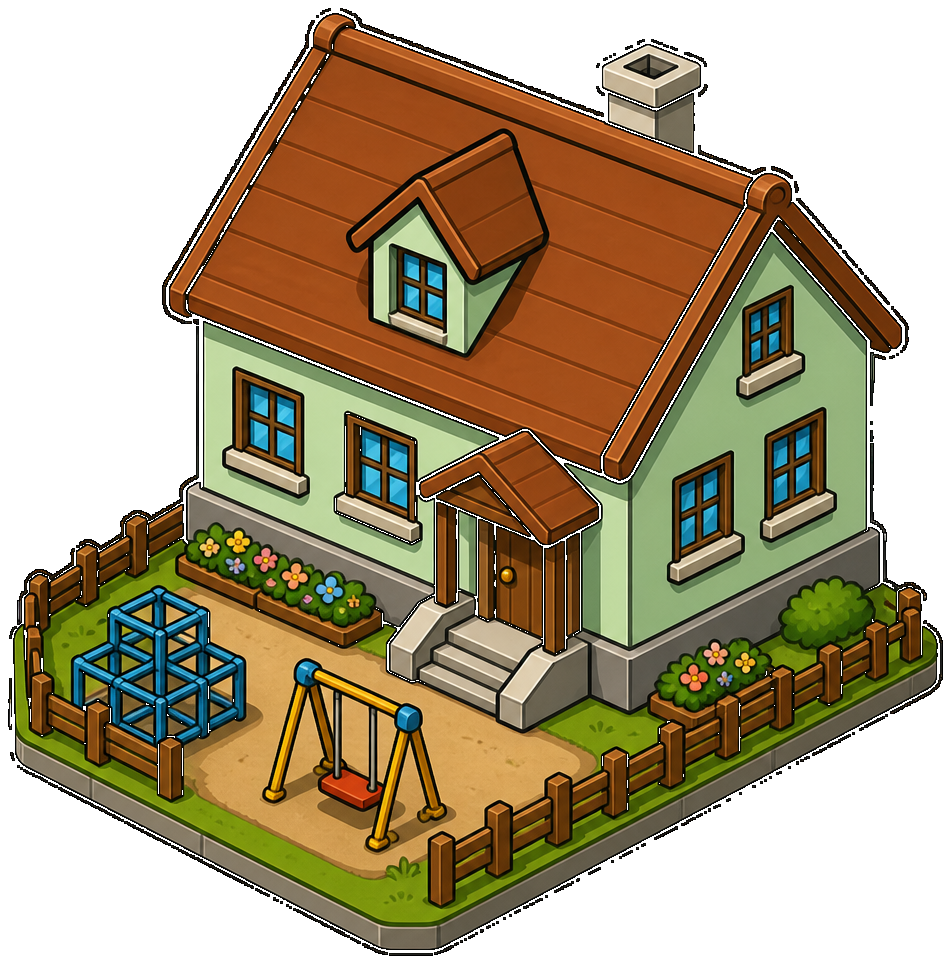
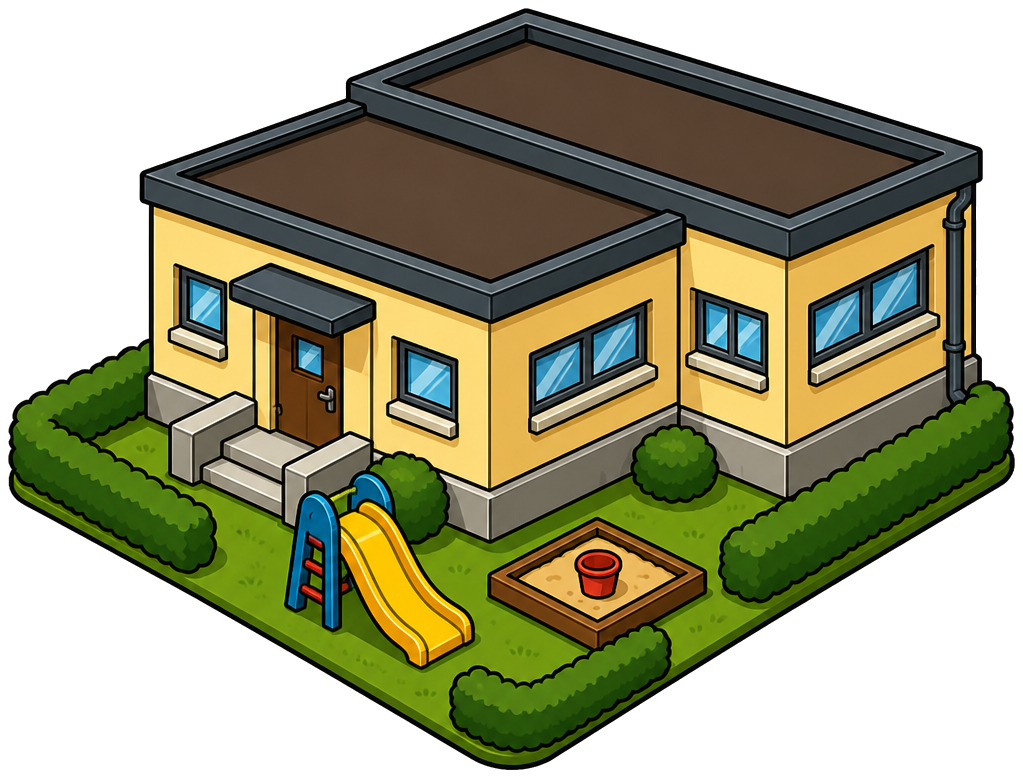
Place Kindergarten Weid on Weidstrasse 16 with flat-roof pavilion art.
OSM tags a flat roof; the old gabled sprite read as a house instead of the real kiga.

diff --git a/docs/plans/m3-landmarks-tracks-water-forest/S05-kiga-weid.md b/docs/plans/m3-landmarks-tracks-water-forest/S05-kiga-weid.md
@@ -1,6 +1,11 @@
 # Slice: S05 — Kindergarten Weid
 
-**Parent:** `docs/plans/m3-landmarks-tracks-water-forest/INDEX.md`  
+**Status:** Erledigt  
+**Typ:** Feature  
+**Datum:** 2026-08-11  
+**Owner:** feature-planner / Phase-2 `feature-implementer`  
+**Parent-INDEX:** `docs/plans/m3-landmarks-tracks-water-forest/INDEX.md`  
+**Slice-Datei:** `docs/plans/m3-landmarks-tracks-water-forest/S05-kiga-weid.md`  
 **Hängt ab von:** —
 
 Nur der **Feature-Schritt**. Plan, Tests, Review, Playtest und Git sind der normale Ablauf für *dieses* Stück — nicht extra Slices.
@@ -16,5 +21,185 @@ Der **Kindergarten Weid** ist in der Welt sichtbar: Lage und Ausrichtung nach Ma
 
 ## Nicht (andere Feature-Schritte)
 
-- Die anderen drei Kindergärten
+- Die anderen drei Kindergärten *(Bachtobel bleibt wie S04 platziert — nicht entfernen, nicht umbauen)*
 - Schul-Campi, Bahnhof, Gleise, Badi, Bäche, Wälder, Wohnhäuser
+
+## Ziel
+
+Spieler sieht im **Osten** von Seuzach (Weidstrasse 16, 8472 Seuzach; Primarschule Seuzach) **ein** Kindergarten-Prop neben der RoadKit-Weidstrasse — südöstlich Campus Birch, nicht am Campus, nicht am Forrenberg-Hub, nicht in Ohringen. Collision wie Schul-Props; **keine** Sprite-Rotation. Kindergarten Bachtobel bleibt stehen. Schneckenwiese und Ohringen-Kiga bleiben unplatziert.
+
+## Scope
+
+### In
+
+- Nur **Kindergarten Weid**: ein Prop, Node-Name `kiga_weid`
+- GPS + Getter in `SeuzachGeo`: `KIGA_WEID_LAT/LON` + `kiga_weid_world()` = Nominatim-Zentroid des OSM-**Gebäudes** (way `131647378`; amenity und building sind derselbe Way)
+- Platzierung in `world_sandbox` via `_add_prop` in bestehendem `_place_kindergartens()` (`landmark_kiga_weid.png`, `SCHOOL_SCALE` 0.22 wie Schulen) **zusätzlich** zu Bachtobel
+- Metas: `landmark_id=kiga_weid`, `kindergarten_id=kiga_weid`, `district=weid`  
+  **Kein** `school_cluster` (sonst zählen Birch/Rietacker/Ohringen-Asserts den Kiga mit)
+- Parent: direkt unter `%Props` (wie Bachtobel), **nicht** unter `DistrictOhringen`
+- Collision über bestehendes `_attach_building_collision` (kein Sonderpfad)
+- Tests: Weid **ist** platziert; Bachtobel **bleibt** platziert; Schneckenwiese und Ohringen-Kiga **bleiben abwesend**; Schul-Campus-Asserts (S01–S03) unangetastet
+- Art: bestehende PNG nur behalten, wenn Silhouette zu OSM passt — hier **Mismatch** (Giebel vs. Flachdach) → Rewrite nur dieser Datei, siehe Art-Bedarf
+
+### Nicht
+
+- Kindergarten Schneckenwiese (`S06`), Ohringen (`S07`)
+- Kindergarten Bachtobel (`S04` erledigt): Getter, Prop, Tests **nicht entfernen / nicht umbauen** ausser die Abwesenheits-Schleife (Weid darf nicht mehr als „absent“ gelten)
+- Schul-Campi Birch / Rietacker / Ohringen (`S01`–`S03` erledigt — Getter, Cluster-Counts, Off-Road der Schulen nicht umbauen)
+- Bahnhof (`S08`), Gleise (`S09`), Badi (`S10`), Bäche (`S11`), Wälder (`S12`)
+- Wohnhäuser / Housing
+- Hort-Provisorium / Tagesstrukturen Weid (Gemeinde 2023, Kredit Hort-Räume) als zweites Gebäude
+- RoadKit / `seuzach_roads.json` ändern (Weidstrasse und In der Weid existieren; Off-Road-Slack ist grün)
+- `SCHOOL_SCALE` global ändern
+- `Sprite2D.rotation` am Kiga (Iso-¾ wie authored; Lage = Maps-Ausrichtung)
+- `DistrictWeid`-Node (Meta reicht); **kein** `district=forrenberg` und **kein** `district=ohringen` (Nominatim-Hierarchie-Falle)
+
+### Raster / GPS / Zuordnung
+
+Koordinaten: `SeuzachGeo` (+X Ost, +Y Süd, Kirche = Ursprung, `FIELD_WU=100` = 5,3 m, `UNITS_PER_METER ≈ 18.868`).
+
+| | |
+|--|--|
+| OSM amenity+Gebäude | way `131647378` `amenity=kindergarten`, `building=kindergarten`, `building:roof=flat`, `education=kindergarten`, `name=Kindergarten Weid`, `addr:housenumber=16` |
+| Gemeinde | Primarschule Seuzach, **Weidstrasse 16, 8472 Seuzach** (zwei Abteilungen) |
+| GPS Platzierung | **47.5330589, 8.7379167** (Nominatim-Zentroid way `131647378`) |
+| Welt | `kiga_weid_world()` ≈ `(16723.8, 929.0)` · Feld ≈ `(167, 9)` |
+| Lage | ~887 m Ost / ~49 m Süd der Kirche; O-Dorf, **südöstlich** Campus Birch |
+
+Kein separater amenity-Node: Way ist Gebäude **und** POI. Ein Getter, ein Prop: Gebäude-Zentroid wie Schulhaus-Props und S04.
+
+Nominatim `hamlet=Forrenberg` / `village=Oberohringen` in der Adresszeile ist OSM-Hierarchie, **nicht** der A1-Hub (`forrenberg_world()` liegt weit südlich, `y ≈ 15124`) und **nicht** Campus Ohringen (`ohringen_world()` liegt SW, `x ≈ −19840`). Guard: Kiga `x > 15000` und `-2000 < y < 4000`.
+
+Relativlage (Kartenbild, N = kleineres Y):
+
+```
+        Campus Birch N  (~254 m / 4795 wu nördlich)
+        Bahnhof NE
+                         |
+        Weidstrasse (RoadKit, NW des Props)
+                         |
+              Kiga Weid 16
+                         |
+        In der Weid weiter SO
+        Kirche W                A1-Forrenberg weit S (nicht hier)
+        Kiga Bachtobel weit N (gleiche Ostlage, ~508 m / 9588 wu nördlich)
+```
+
+OSM-Grundriss way `131647378` (Stand 2026-08-11): bbox ~24 m N–S × ~25 m O–W, gestuft/unregelmässig (Pavillon); längste Kante ~11 m, grob **SW–NE** (~215° / 35°). Spiel-Sprite bei `SCHOOL_SCALE=0.22` ist visuell ~11 m (951×964 px) — bestehende Schul-Konvention, hier nicht skalieren.
+
+RoadKit: Gebäude-Zentroid vs. `seuzach_roads.json` Weidstrasse (`class=local`, `half_w=36`): Füße ≈ 544 wu, AABB (Sprite reicht nach N) bleibt ≫ Need 100 / 50. Nächste anderen: Blumenweg ~863 wu, Birkenweg ~1046 wu, In der Weid ~2077 wu. Off-Road-Asserts sollen ohne JSON-Änderung grün bleiben.
+
+Ist-Zustand (warum dieser Slice): `_place_kindergartens()` setzt nur Bachtobel. `KIGA_IDS` listet Weid; `_assert_kiga_bachtobel` fordert Weid **abwesend**. S05 platziert **nur** Weid dazu und lockt Schneckenwiese + Ohringen-Kiga weiter auf Abwesenheit. Bachtobel-Assert bleibt, Abwesenheits-Schleife muss Weid ausnehmen.
+
+## Systeme
+
+- `scripts/seuzach_geo.gd` — GPS-Konstanten + `kiga_weid_world()` (Bachtobel- und Schul-Getter unangetastet)
+- `scripts/world_sandbox.gd` — `_place_kindergartens()` um Weid erweitern; Bachtobel-Aufruf bleibt; `_add_prop` + `_attach_building_collision` unverändert
+- `tests/m3_world_landmarks_test.gd` — Weid-Layout; Bachtobel weiter vorhanden; Schneckenwiese/Ohringen-Kiga abwesend; Schul-Asserts bleiben
+- `tests/m3_building_occlusion_test.gd` — Sample bleibt Birch; neuer Prop O darf Occlusion nicht kippen
+- `tests/m2_world_test.gd` — nicht regressieren
+- Art `assets/art/landmark_kiga_weid.png` (bestehend, Silhouette-Rewrite siehe Art-Bedarf)
+
+## Repro & RCA (Pflicht bei Typ = Bugfix)
+
+n/a (Typ = Feature; Ist-Zustand: Weid-Kiga nicht platziert, siehe Scope).
+
+## Technische Schritte
+
+1. **`SeuzachGeo`:** Schul-/Bachtobel-/Bahnhof-/Badi-/Forrenberg-Konstanten nicht ändern. Neu:
+   - `KIGA_WEID_LAT := 47.5330589`
+   - `KIGA_WEID_LON := 8.7379167`
+   - `kiga_weid_world() -> gps_to_world(...)`  
+   Kommentar: OSM way `131647378` Weidstrasse 16 (Gebäude=POI), nicht Forrenberg-Hub, nicht Ohringen.
+2. **`world_sandbox.gd`:** In `_place_kindergartens()` **Bachtobel behalten** und **Weid hinzufügen**:
+   ```
+   _add_prop(
+     "landmark_kiga_weid.png",
+     SeuzachGeo.kiga_weid_world(),
+     SCHOOL_SCALE,
+     {"landmark_id": "kiga_weid", "kindergarten_id": "kiga_weid", "district": "weid"},
+     "kiga_weid"
+   )
+   ```
+   Keine `rotation`. Kein Schneckenwiese/Ohringen-Kiga. Kein `school_cluster`. Kommentar S04-only entfernen/anpassen.
+3. **Tests zuerst/mit:** In `tests/m3_world_landmarks_test.gd`:
+   - Neue Funktion `_assert_kiga_weid(sprites)` aus `_run` aufrufen (nach `_assert_kiga_bachtobel`).
+   - Weid **vorhanden:** Node `kiga_weid`; Metas `landmark_id` / `kindergarten_id` / `district` wie Scope; `_has_kindergarten(..., "kiga_weid")` true.
+   - GPS-Konstanten matchen die Tabelle; Getter `distance_to(Vector2(16723.8, 929.0)) < 1.0`.
+   - Position ≤ **80 wu** zum Getter.
+   - Quadrant: `x > 15000` und `-2000 < y < 4000` (O-Dorf, nicht NE-Bachtobel, nicht SW-Ohringen, nicht Forrenberg-Süd).
+   - Relativ: `kiga.position.y > birch_world().y + 3000` (südlich Birch); `kiga.position.x > birch_world().x` (östlich Birch); `kiga.position.y > kiga_bachtobel_world().y + 4000` (südlich Bachtobel); Distanz zu `ohringen_world()` und `forrenberg_world()` jeweils **> 8000 wu**.
+   - Parent-Kette enthält **nicht** `DistrictOhringen`.
+   - `rotation == 0`; `has_building_collision`.
+   - **Bachtobel bleibt:** `_assert_kiga_bachtobel` weiter aufrufen; in dessen Abwesenheits-Schleife `kiga_weid` **nicht** mehr als absent fordern (skip `kiga_bachtobel` **und** `kiga_weid`). Ohringen-Guard in `_assert_ohringen_campus` darf stehen bleiben.
+   - **Schneckenwiese + Ohringen-Kiga abwesend:** `not _has_kindergarten` und `_find_named(..., id) == null` für `kiga_schneckenwiese` und `kiga_ohringen`.
+   - Off-Road: `_assert_schools_off_roads` deckt bereits `kindergarten_id` ab — Weid fällt automatisch unter Weidstrasse/In der Weid. **Nicht** `school_cluster` am Kiga setzen. Road-JSON nicht anfassen.
+   - Optional in `_assert_kiga_weid`: `_assert_road_near(ground, "Weidstrasse", SeuzachGeo.kiga_weid_world(), 900.0)` — Marker existiert schon, nicht die globale Required-Road-Liste anfassen. In der Weid nicht als Pflicht-Nähe (d ≈ 2077 wu).
+   - Birch-/Rietacker-/Ohringen-OSM-Blöcke, Cluster-Counts (=3), Bachtobel-GPS/NE-Guards **nicht** umbauen.
+4. **Occlusion / m2:** keine Sample-Umbiegung auf den Kiga; `m2_world_test` unverändert erwarten.
+5. **Art-Gate:** Silhouette kippt (OSM Flachdach vs. Ist-Giebel) — `comic-rettung-art` **dieser** PNG, siehe Art-Bedarf. Pipeline: `process_art_alpha.py` → `verify_art_alpha.py`; ggf. `godot --headless --path . --import`.
+6. Suite `./scripts/run_tests.sh`. Playtest nur Weid (Bachtobel und Schul-Campi visuell nicht umbauen).
+
+## Testplan
+
+### Automatisiert
+
+- [x] `kiga_weid` in `world_sandbox` unter `%Props` vorhanden, Metas wie Scope
+- [x] Position ≈ `kiga_weid_world()`, Toleranz 80 wu; Getter ≈ `(16723.8, 929.0)`
+- [x] O-Guard `x > 15000`, `-2000 < y < 4000`; südlich und östlich von Birch; südlich von Bachtobel; weit von Ohringen- und Forrenberg-Ankern
+- [x] `kiga_bachtobel` **weiter platziert** (S04-Asserts bleiben grün)
+- [x] `kiga_schneckenwiese`, `kiga_ohringen` **nicht** platziert
+- [x] Kein `school_cluster` am Kiga; Birch/Rietacker/Ohringen bleiben je genau 3
+- [x] Off-Road (Füße + AABB) inkl. Weidstrasse ohne Road-JSON-Änderung
+- [x] BuildingCollision; `rotation` 0; nicht unter `DistrictOhringen`
+- [x] S01–S04 Campus-/Bachtobel-Asserts und `m2_world_test` grün
+- [x] Art-Datei existiert (`REQUIRED_ART` enthält `landmark_kiga_weid.png` bereits)
+
+### Playtest / Smoke
+
+- [x] Haupt-Scene startet ohne Error
+- [x] Ein Kindergarten-Gebäude an Weidstrasse 16 (O, südöstlich Birch), Füße auf Gras nicht auf Asphalt
+- [x] Collision blockiert wie Schulhäuser; Spieler kann an der Fassade vorbei
+- [x] Y-Sort: Spieler südlich der Fassade davor, nördlich dahinter
+- [x] Bachtobel-Kiga weiter im NE sichtbar; keine Schneckenwiese-/Ohringen-Kiga-Props; Schul-Cluster unverändert
+- [x] Kein Sprite-Twist; Iso-¾ wie authored
+- [x] Keine weissen/schwarzen AI-Platten (`verify_art_alpha`)
+
+Playtest 2026-08-11: `verify_art_alpha` 181 PNGs; `./scripts/run_tests.sh` green inkl. Weid-GPS/Off-Road (Weidstrasse feet d=544 / AABB 340); smoke `godot --path . --quit-after 5` exit 0. Shot `/tmp/s05-kiga-weid.png` (player at `kiga_weid_world()`, zoom 0.55): ein Flachdach-Pavillon, Rutsche+Sandkasten lesbar, Füße auf Gras; Weidstrasse nur am Rand, nicht unter dem Prop. Bachtobel bleibt platziert; Schneckenwiese/Ohringen-Kiga abwesend. Rewrite-PNG bestätigt (kein Giebel).
+
+## Art-Bedarf
+
+- [ ] Keine neuen Assets *(nicht der Default — Silhouette kippte)*
+- [x] Neue Grafiken/Animationen → Subagent **`comic-rettung-art`** (Stil C) **nur dieser Kiga** — Rewrite geliefert, Playtest bestätigt Flachdach
+
+**Warum Rewrite (wie S01 Birch-a / S03 Ohringen-b, anders als S04 Bachtobel):**
+
+| Quelle | Silhouette |
+|--------|------------|
+| OSM way `131647378` | `building=kindergarten`, **`building:roof=flat`**, kein `building:levels`, Pavillon-Grundriss ~25×24 m gestuft |
+| Gemeinde | Weidstrasse 16; Hort-Anbau 2023 ist ein **anderes** Volumen — nicht in diesem Prop |
+| Ist-PNG | 951×964 RGBA, 2-geschossiges **Giebel**-Häuschen, Gaube, Minzputz, Schaukel + Kletterwürfel — lesbarer Kiga, aber **Giebel ≠ Flachdach** |
+
+Giebel/Flachdach-Konflikt. Farbe/Spielgeräte (grün, Schaukel) sind Style-C-Kiga-Sprache und dürfen bleiben — Dach und Geschosszahl nicht. Bachtobel-PNG nicht anfassen (lachs, Rutsche, Giebel — passt dort zu OSM `roof:shape=gabled`).
+
+**Auftrag `comic-rettung-art` (Phase 2b):**
+
+- Rewrite **nur** `assets/art/landmark_kiga_weid.png`, gleicher Pfad
+- Refs: `docs/design-refs/c-umgebung.png`, `c-basis.png`, `c-iso-city-map.png` + Maps/Street View Weidstrasse 16 Seuzach / Satellit Kindergarten Weid
+- Stil C: Kontur, Cel; kleiner CH-Kiga, **Flachdach-Pavillon** (1970er-Gemeindebau), Spielbereich (Schaukel/Sand) erlaubt; kein 2-geschossiges Giebelhaus, keine Gaube
+- Iso-¾ Default-Facing; **kein** `Sprite2D.rotation`; kein extra Dir-Set
+- Pipeline: `python3 scripts/process_art_alpha.py` → `python3 scripts/verify_art_alpha.py` (grün); Walk-Pad entfällt
+- Keine Bachtobel-/Schneckenwiese-/Ohringen-Kiga-Art, keine Schul- oder Housing-Art
+
+Falls Playtest/Street View **Giebel** bestätigt (OSM-Tag falsch): PNG behalten und hier dokumentieren — Default ist Rewrite.
+
+## Akzeptanzkriterien
+
+- [x] Grenzen eingehalten: nur Weid-Kiga neu; Bachtobel bleibt; keine Schneckenwiese-/Ohringen-Kigas; keine Campus-/Bahnhof-/Gleis-/Badi-/Bach-/Wald-/Housing-Änderungen
+- [x] Prop auf GPS der Tabelle (±80 wu); O-Dorf, nicht Forrenberg-Hub, nicht Ohringen
+- [x] Off RoadKit-Asphalt; Collision wie Schul-Props; keine Sprite-Rotation
+- [x] Art: Flachdach-Silhouette Style C **oder** dokumentierter Playtest-Entscheid, dass die Giebel-PNG reicht
+- [x] Automatisierte Tests grün
+- [x] Code Review ohne offene Critical/High
+- [x] Playtest Pass

diff --git a/docs/plans/m3-landmarks-tracks-water-forest/INDEX.md b/docs/plans/m3-landmarks-tracks-water-forest/INDEX.md
@@ -15,7 +15,7 @@ Feature-Schritte, keine Prozess-Schritte. Pro Zeile folgt der volle Entwicklungs
 | S02 | `S02-campus-rietacker.md` | Campus Rietacker (Maps-Ausrichtung) | — | erledigt |
 | S03 | `S03-campus-ohringen.md` | Campus Ohringen (Maps-Ausrichtung) | — | erledigt |
 | S04 | `S04-kiga-bachtobel.md` | Kindergarten Bachtobel | — | erledigt |
-| S05 | `S05-kiga-weid.md` | Kindergarten Weid | — | offen |
+| S05 | `S05-kiga-weid.md` | Kindergarten Weid | — | erledigt |
 | S06 | `S06-kiga-schneckenwiese.md` | Kindergarten Schneckenwiese | — | offen |
 | S07 | `S07-kiga-ohringen.md` | Kindergarten Ohringen | — | offen |
 | S08 | `S08-bahnhof-seuzach.md` | Bahnhof Seuzach | — | offen |
